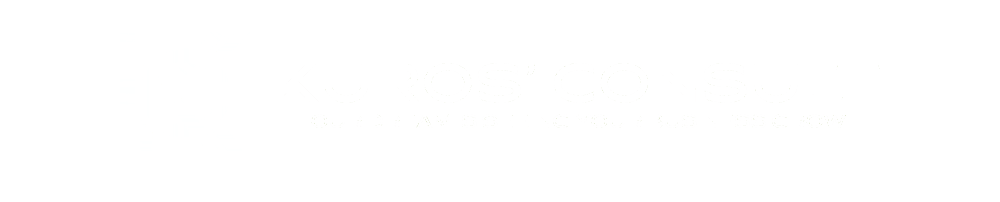
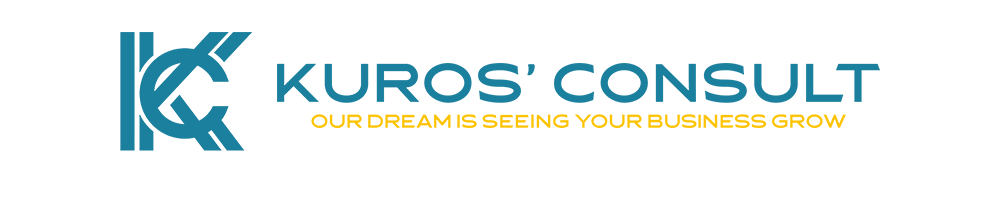
Initial commit

Changed region(s): [[0.279, 0.297, 0.899, 0.505], [0.093, 0.1485, 0.248, 0.7723], [0.31, 0.5644, 0.868, 0.6535]]

diff --git a/src/components/Layout.jsx b/src/components/Layout.jsx
@@ -1,6 +1,8 @@
 import React, { useState, useEffect } from 'react';
 import { motion, AnimatePresence } from 'framer-motion';
 import { Menu, X, MessageCircle, Instagram, Facebook, Linkedin, MapPin, Phone, Mail } from 'lucide-react';
+import logo from '../assets/kuro.png'; 
+import logowhite from '../assets/kurowhite.png'; 
 
 export const Navigation = ({ currentPage, setCurrentPage, mobileMenuOpen, setMobileMenuOpen }) => {
   const [scrolled, setScrolled] = useState(false);
@@ -24,7 +26,7 @@ export const Navigation = ({ currentPage, setCurrentPage, mobileMenuOpen, setMob
     <nav className={`fixed top-0 left-0 right-0 z-50 transition-all duration-700 ${
       scrolled ? 'bg-white/80 backdrop-blur-xl shadow-sm py-3' : 'bg-transparent py-6'
     }`}>
-      <div className="max-w-7xl mx-auto px-6">
+      <div className="max-w-7xl mx-auto px-2">
         <div className="flex justify-between items-center">
           {/* Brand Identity */}
           <motion.div 
@@ -32,13 +34,11 @@ export const Navigation = ({ currentPage, setCurrentPage, mobileMenuOpen, setMob
             onClick={() => setCurrentPage('home')}
             whileHover={{ x: 2 }}
           >
-            <div className="w-11 h-11 bg-gradient-to-br from-[#135E73] to-[#2FA8C7] rounded-xl flex items-center justify-center text-white font-bold text-lg shadow-lg shadow-[#135E73]/20 group-hover:shadow-[#135E73]/40 transition-all duration-300">
-              KC
+            {/* Logo Image Container */}
+            <div className="w-52 rounded-xl flex items-center justify-center overflow-hidden transition-all duration-300 group-hover:scale-105">
+              <img src={logo} alt="Kuros' Consult Logo" className="w-full h-full object-contain" />
             </div>
-            <div>
-              <h1 className="text-lg font-bold text-[#135E73] tracking-tight leading-none">Kuros' Consult</h1>
-              <p className="text-[10px] text-[#FEC300] font-bold uppercase tracking-[0.2em]">Digital Ecosystem</p>
-            </div>
+           
           </motion.div>
 
           {/* Desktop Nav */}
@@ -106,9 +106,14 @@ export const Footer = ({ setPage }) => (
     <div className="absolute top-0 right-0 w-[600px] h-[600px] bg-[#2FA8C7] rounded-full mix-blend-overlay filter blur-[120px] opacity-20 translate-x-1/2 -translate-y-1/2"></div>
     
     <div className="max-w-7xl mx-auto px-6 relative z-10">
-      <div className="grid md:grid-cols-12 gap-12 mb-20 border-b border-white/10 pb-16">
+      <div className="grid md:grid-cols-12 gap-12 mb-20 pb-16">
         <div className="md:col-span-5">
-          <h2 className="text-3xl font-light tracking-tight mb-6">Kuros' Consult Limited</h2>
+          <div className="flex items-start mb-6">
+             <div className="w-50 rounded-lg flex items-center justify-center overflow-hidden">
+                <img src={logowhite} alt="KC Logo" className="w-full h-full object-contain" />
+             </div>
+            
+          </div>
           <p className="text-white/70 font-light leading-relaxed mb-8 max-w-md text-lg">
             The engine room of creativity, technology, and opportunity. We connect youth talent with meaningful work and empower brands with transformative digital solutions.
           </p>
